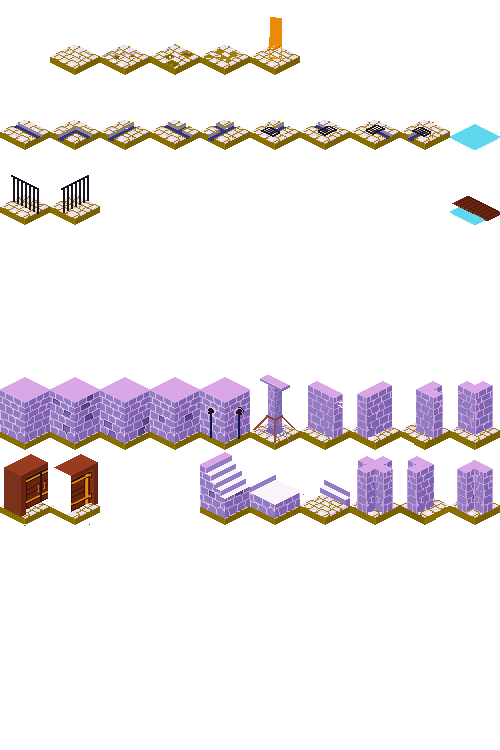
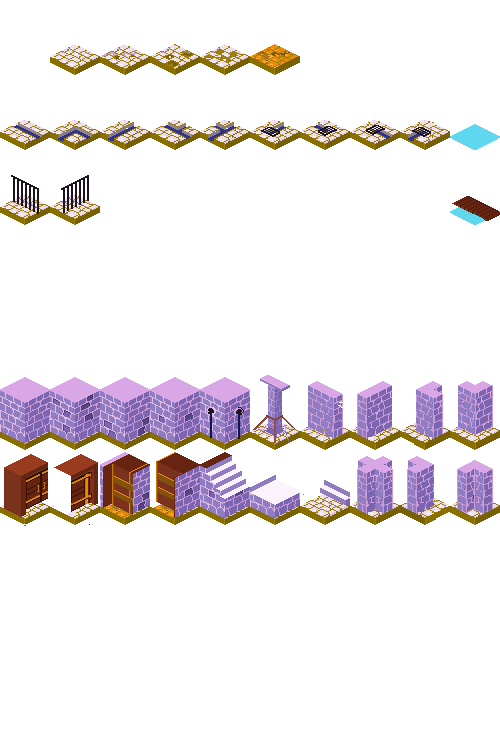
Updated end tile.  Removed enemy from first room.

Changed region(s): [[0.18, 0.5827, 0.45, 0.7053], [0.51, 0.0, 0.6, 0.092]]

diff --git a/js/world/world.js b/js/world/world.js
@@ -79,14 +79,14 @@ var levelOne = [
 			   ];
 			   
 			   var sewerEntrance = [						
-				52, 52, 52, 52, 52, 51, 50, 52, 50, 53, 50, 51, 52, 54, 52, 52, 52, 52, 52, 53,
+				52, 52, 52, 52, 52, 51, 50, 52, 53, 53, 50, 51, 52, 54, 52, 52, 52, 52, 52, 53,
 				52, 64, 65,  1,  1,  1,  1,  1,  1,  1,  1,  1, 17, 13, 10, 16,  1,  1,  1, 52,
 				52,  1, 66,  1,  1,  1,  1,  1,  1,  1,  1,  1,  1,  1,  1,  1,  1,  1,  1, 52,
 			    52,  1,  1,  1,  1,  1,  1,  1,  1,  1,  1,  1,  1,  1,  2,  1,  1,  1,  1, 52,
 				52,  1,  1,  1,  1,  1,  1,  1,  3,  1,  1,  1,  1,  1,  1,  1,  1,  1,  1, 52,
 				52, 18,  1,  1,  1,  1,  1,  1,  1,  1,  1,  1,  1,  1,  1,  4,  1,  1,  1, 52,
-				54, 14,  1,  1,  1,  5,  1,  2,  4,  1,  1,  1,  1,  1,  3,  4,  1,  1,  1, 52,
-				52, 12,  1,100,  1,  1,  1,  1,111,  4,  1,  1,  1,  1,  1,  1,  1,  1,  1, 52,
+				54, 14,  1,  1,  1,  4,  1,  2,  4,  1,  1,  1,  1,  1,  3,  4,  1,  1,  1, 52,
+				52, 12,  1,100,  1,  1,  1,  1,  1,  4,  1,  1,  1,  1,  1,  1,  1,  1,  1, 52,
 				52, 12,  1,  1,  1,  1,  2,  1,  1,  1,  1,  1,  1,  1,  1,  1,  1,  1,  1, 52,
 				52, 12,  1,  1,  1,  1,  1,  1,  1,  1,  1,  1,  1,  1,  1,  1,  1,  1,  1,  1,
 				52, 12,  1,  4,  1,  2,  1,  1,  1,  1,  1,  1,  1,  1,  1,  2,  3,  1,  1,  1,
@@ -96,15 +96,15 @@ var levelOne = [
 				52, 15,  1,  1,  1,  1,  1,  1, 57,  1,  1,  1,  1,  1,  1,  1,  3,  4,  1, 52,
 				52,  1,  1,  1,  1,  3,  2,  1, 57,  1,  1,  1,  1,  1,  1,  1,  4,  3,  1, 52,
 				52,  1,  1,  1,  1,  1,  1,  1, 57,  1,  1,  1,  1,  1,  1,  1,  2,  2,  1, 52,
-				52,  1,  1,  1,  1,  1,  1,  1, 57,  1,  1,  1,  1,  1,  1,  1,  1,  1,101, 52,
+				52,  1,  1,  1,  1,  1,  1,  1, 57,  1,  1,  1,  1,  1,  1,  1,  1,  1,  1, 52,
 				52,  1,  1,  1,  1,  1,  1,  1, 57,  1,  1,  1,  1,  1,  1,  1,  1,  1,  1, 52,
 				52, 52, 52, 52, 52, 52, 52, 52, 52,  1,  1, 52, 52, 52, 52, 52, 52, 52, 52, 52
 		   		];
 			   var bossRoom =  [						
-				52, 52, 52, 52, 52, 52, 52, 52, 52, 51, 51, 52, 52, 52, 52, 52, 52, 52, 52, 53,
-				52,  1,  1,  1,  1,  1,  1,  1,  1,  1,  1,  1,  1,  1,  1,  1,  1,  1,  1, 52,
-				52,  1,  1,  1,  1,  1,  1,  1,  1,  1,  1,  1,  1,  1,  1,  1,  1,  1,  1, 52,
-			    52,  1,  1,  1,  1,  1,  1,  1,  1,  1,  1,  1,  1,  1,  1,  1,  1,  1,  1, 52,
+				52, 52, 52, 52, 52, 52, 52, 52, 52, 62, 63, 52, 52, 52, 52, 52, 52, 52, 52, 53,
+				52,  1,  1,  1,  1,  1,  1,  1,  5,  5,  5,  5,  1,  1,  1,  1,  1,  1,  1, 52,
+				52,  1,  1,  1,  1,  1,  1,  1,  5,  5,  5,  5,  1,  1,  1,  1,  1,  1,  1, 52,
+			    52,  1,  1,  1,  1,  1,  1,  1,  5,  5,  5,  5,  1,  1,  1,  1,  1,  1,  1, 52,
 				52,  1,  1,  1,  1,  1,  1,  1,  1,  1,  1,  1,  1,  1,  1,  1,  1,  1,  1, 52,
 				52,  1,  1,  1,  1,  1,  1,  1,  1,  1,  1,  1,  1,  1,  1,  1,  1,  1,  1, 52,
 				52,  1,  1,  1,  1,  1,  1,  1,  1,  1,  1,  1,  1,  1,  1,  1,  1,  1,  1, 52,
@@ -281,6 +281,8 @@ var levelText = 	["You suddenly emerge into the dimly lit sewer, surrounded by a
 	const TILE_WALL_STONE_9 = 59;
 	const TILE_WOODEN_DOOR_1 = 60;
 	const TILE_WOODEN_DOOR_2 = 61;
+	const TILE_EXIT_DOOR_1 = 62;
+	const TILE_EXIT_DOOR_2 = 63;
 	const TILE_STAIRWAY_1 = 64;
 	const TILE_STAIRWAY_2 = 65;
 	const TILE_STAIRWAY_3 = 66;

diff --git a/js/character.js b/js/character.js
@@ -43,7 +43,7 @@ function CharacterBase (){
 	this.canMoveEast = true;
 	this.canMoveSouth = true;
 	this.canMoveWest = true;	
-	this.health = 1;
+	this.health = 10;
 	this.maxHealth = 10;
 	this.defense = 10;
 	this.trapCoolDownTimer = 0;
